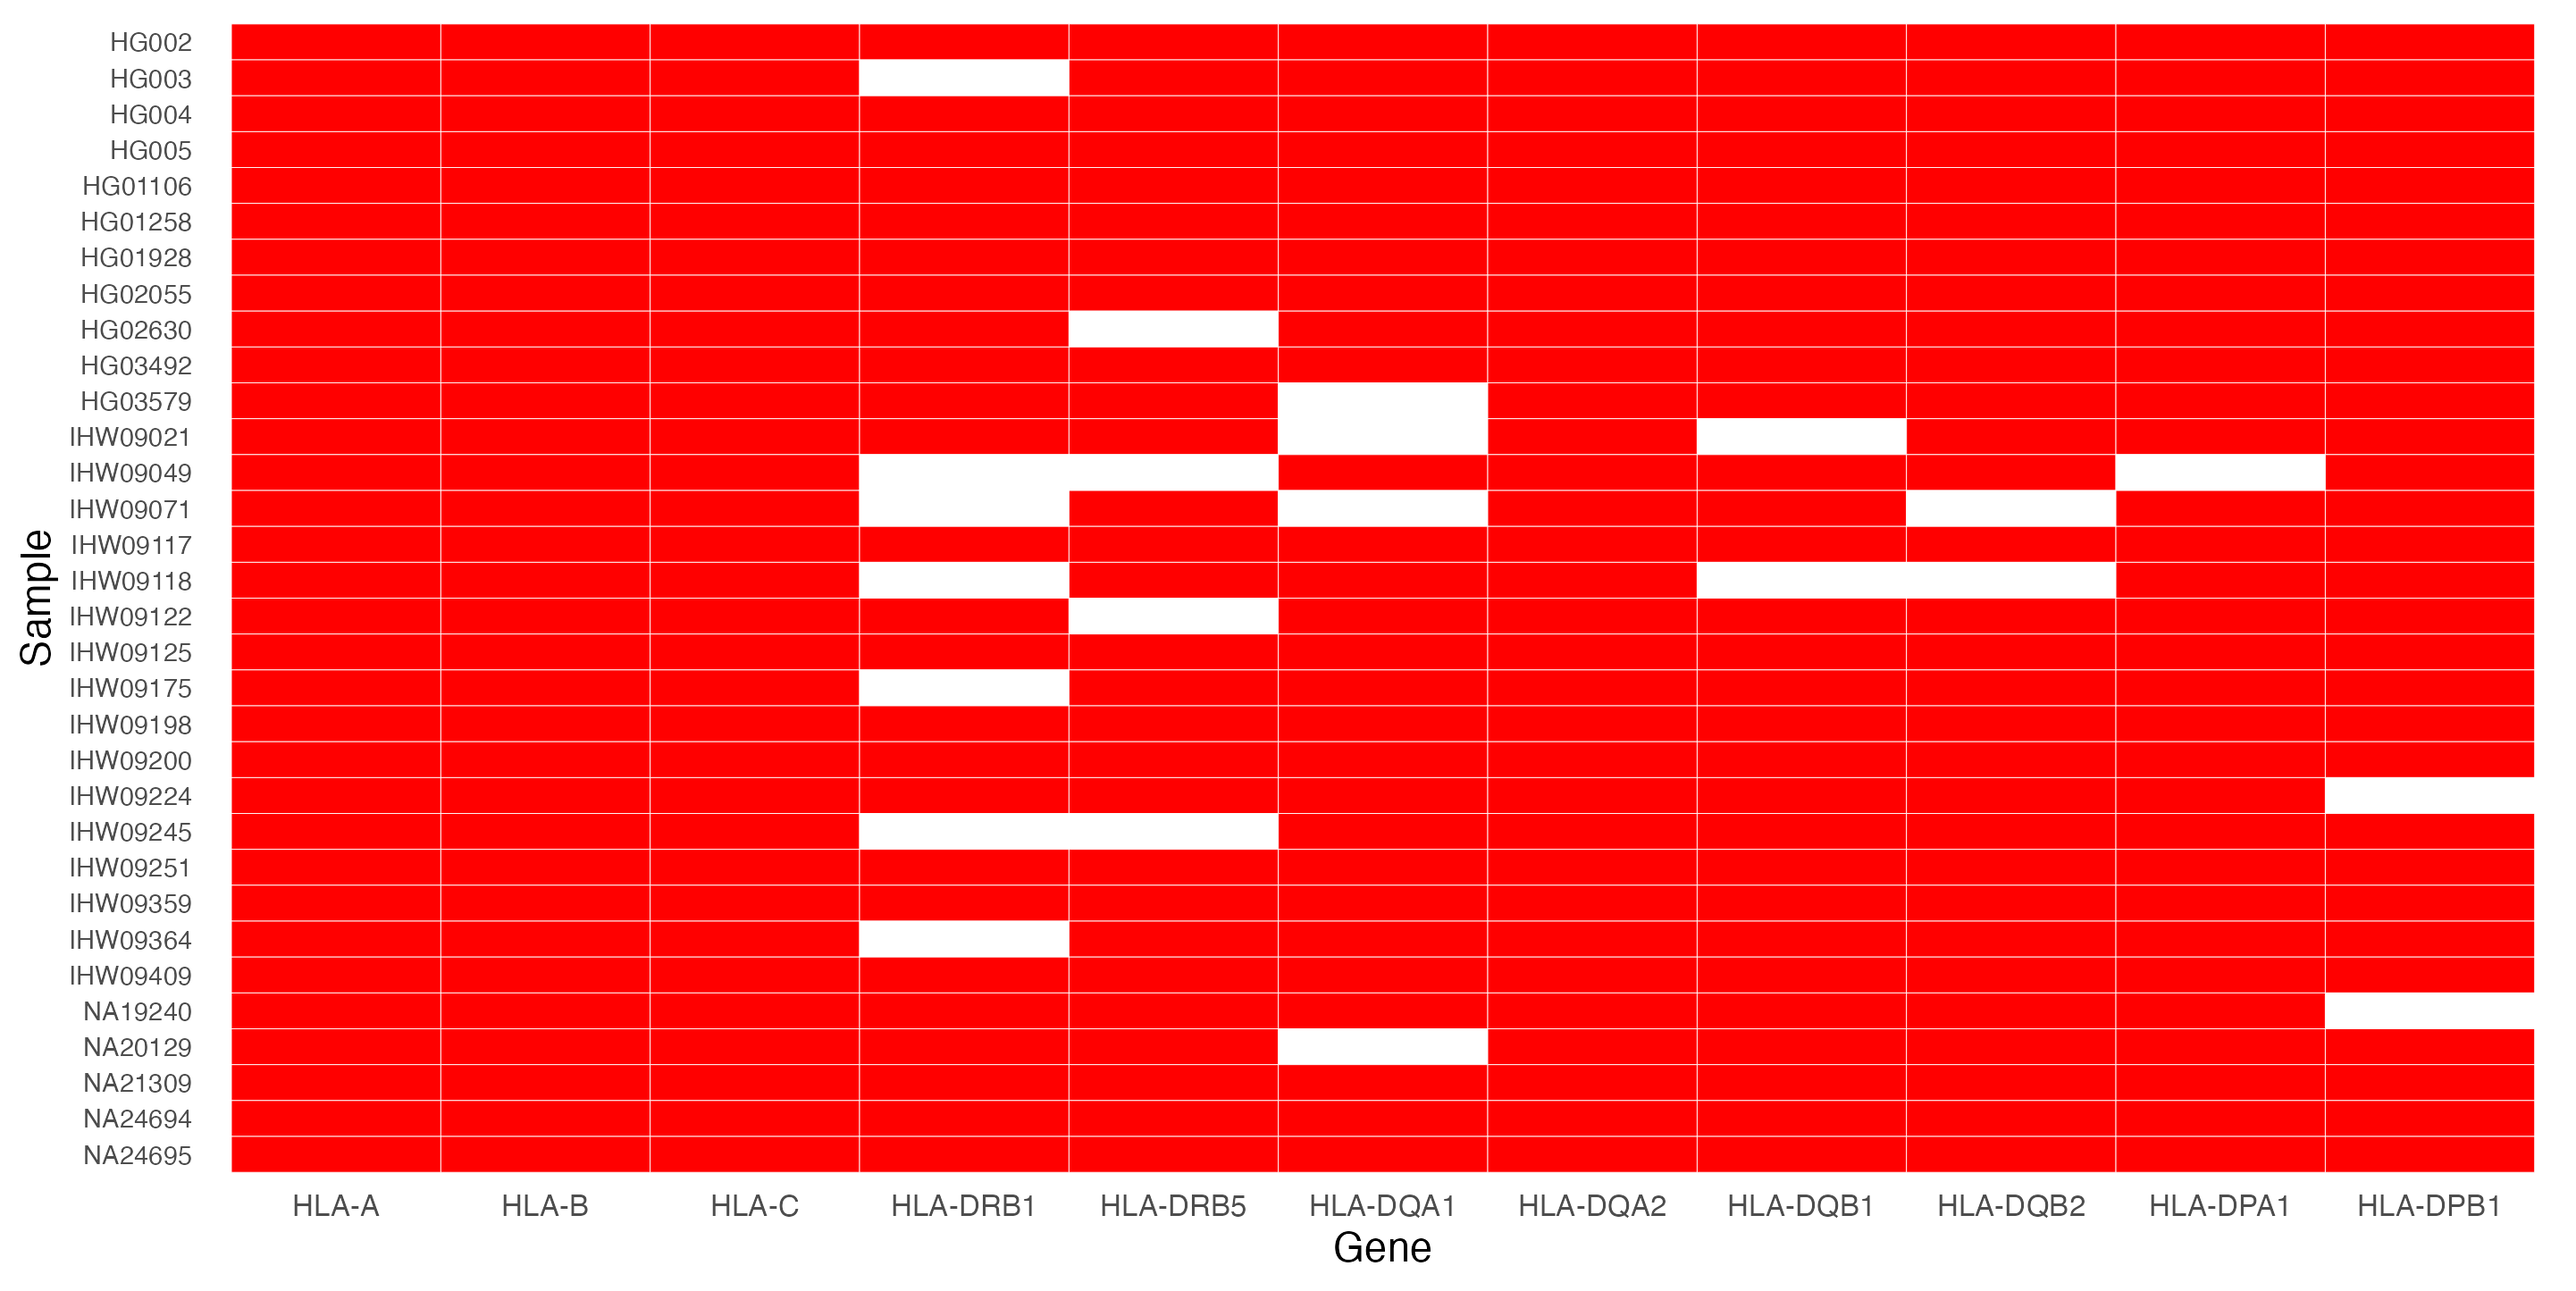
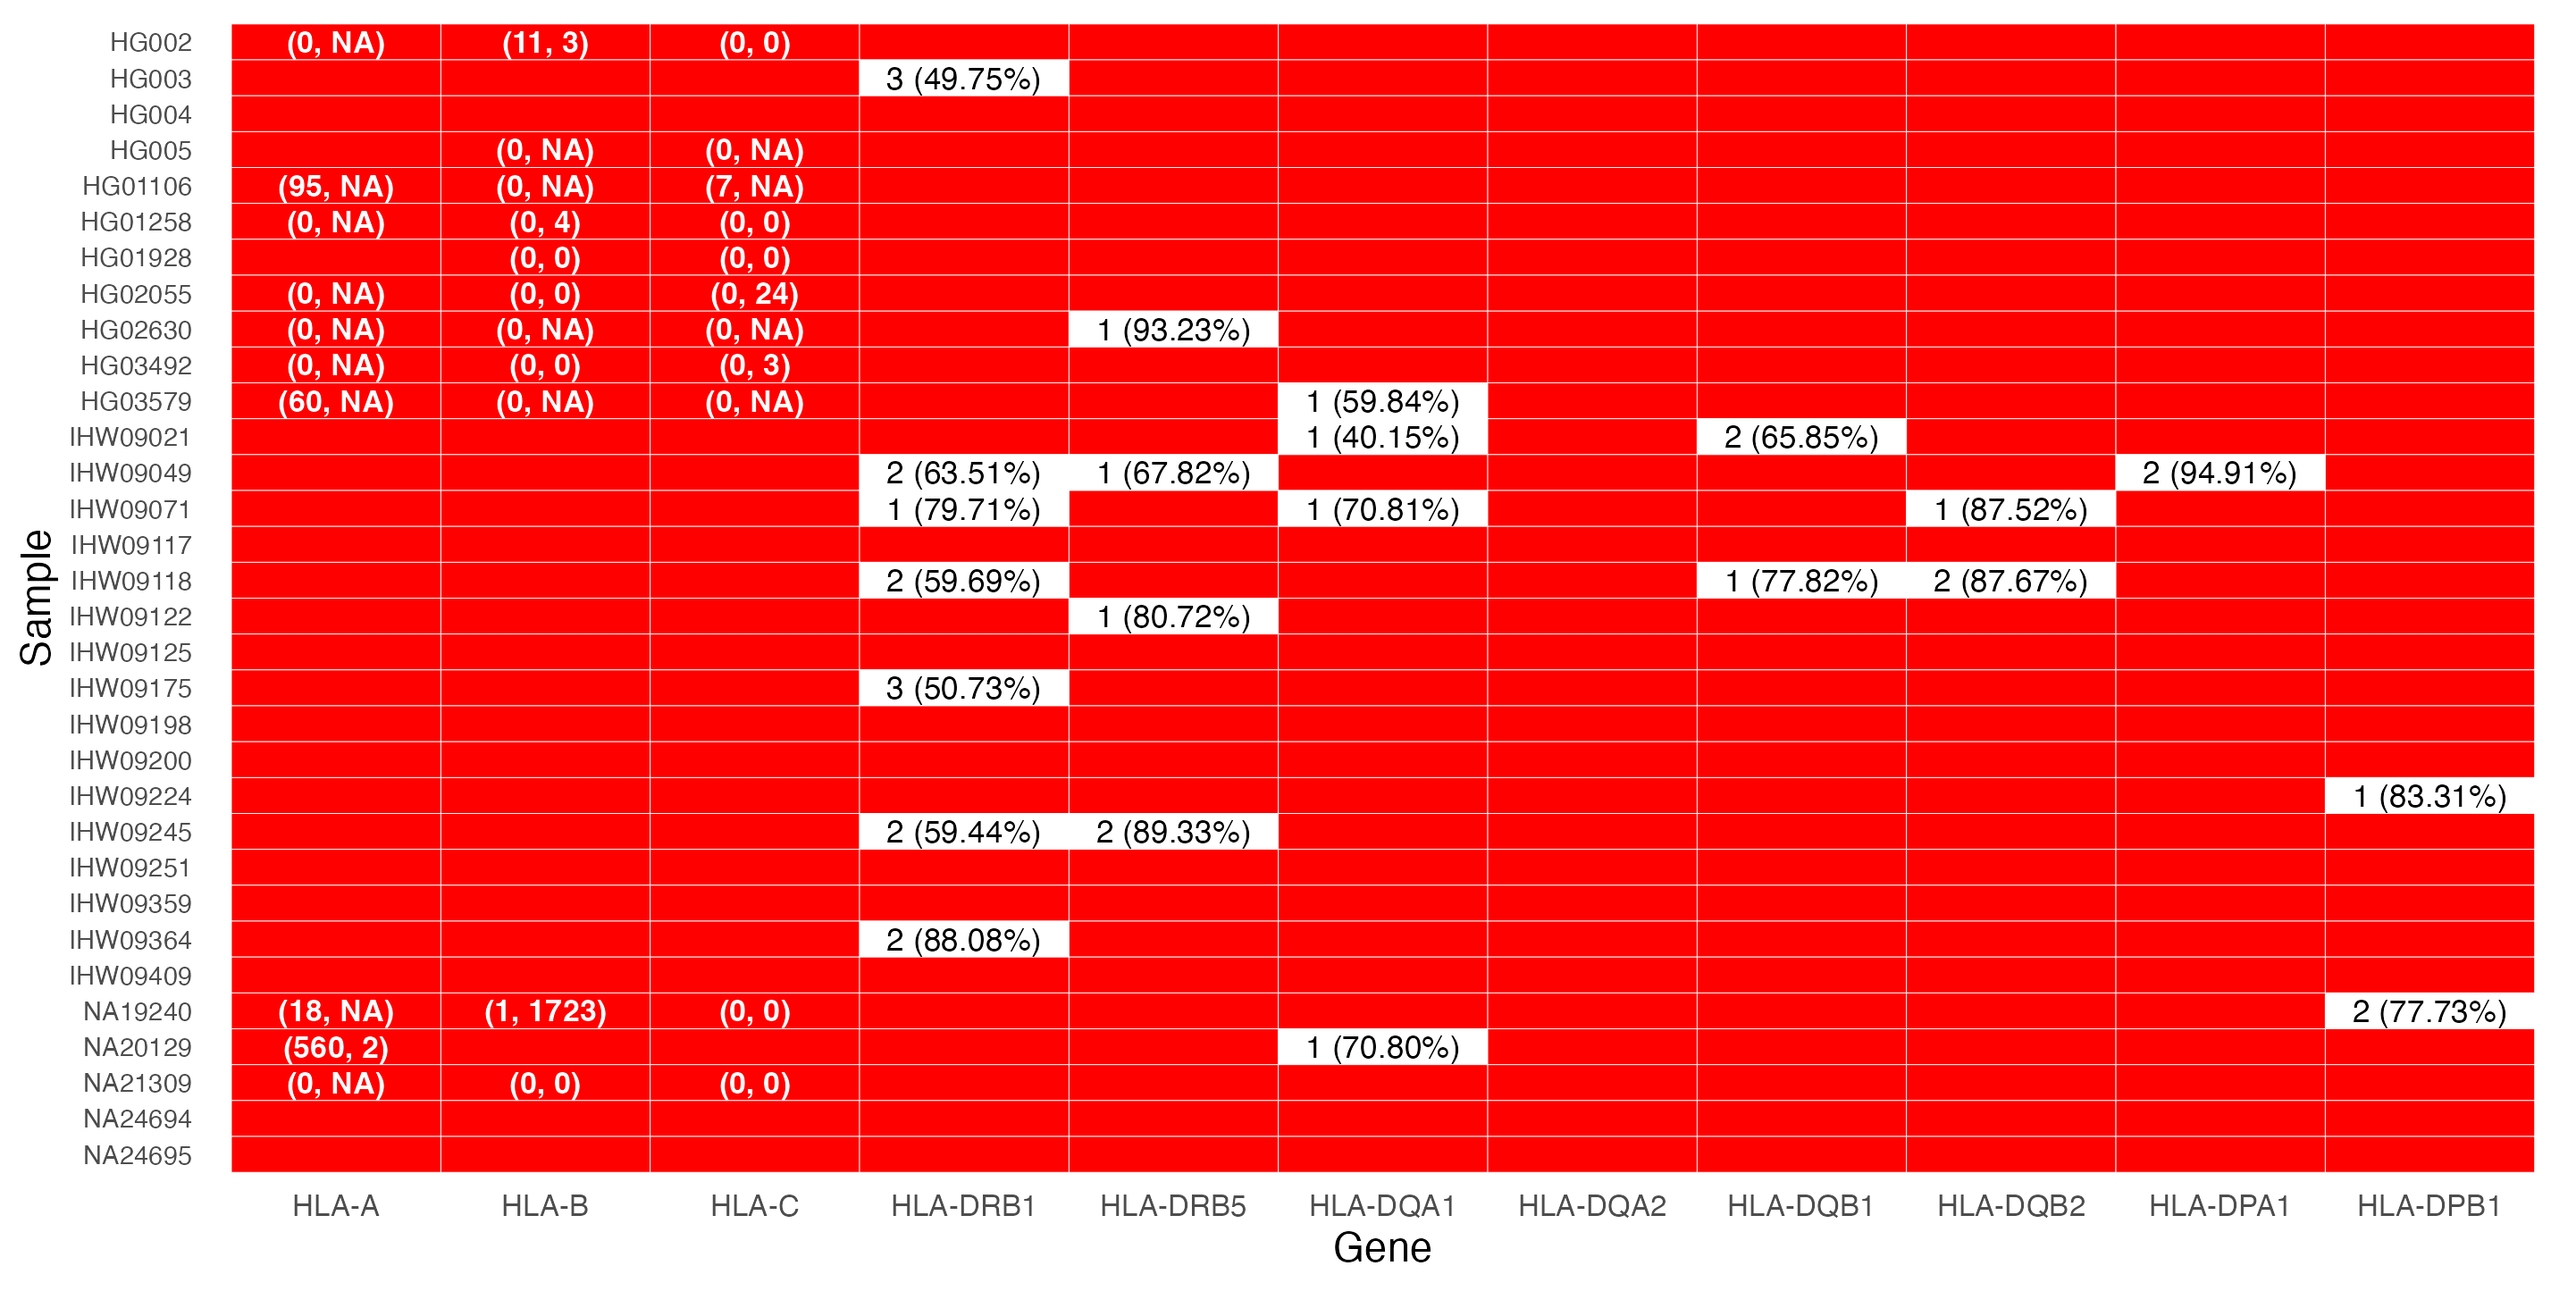
update

diff --git a/scripts/newest_parse_haploblocks.py b/scripts/newest_parse_haploblocks.py
@@ -123,6 +123,7 @@ def parse_haploblocks(sample, het_sites, params):
 # Check whether each captured MHC gene is completely spanned by a haploblock
 def evaluate_gene_haploblocks(sample, het_sites, haploblocks):
 	# List of fully phased genes
+	haploblocks.sort()
 	gene_list = []
 	
 	# List of genes with partially overlapping haploblock
@@ -166,10 +167,27 @@ def evaluate_gene_haploblocks(sample, het_sites, haploblocks):
 
 		# Get details on haploblock overlap for genes of interest (HLA Class I/II) that were not fully phased 
 		if not fully_phased and gene in genes_of_interest:
-			overlapping_haploblocks = [(block_start, block_stop) for (block_start, block_stop) in haploblocks if (block_stop >= gene_start and block_start <= gene_stop)]
+			overlapping_haploblocks = []
+			upstream_block = None
+			downstream_block = None
+
+			for block_start, block_stop in haploblocks:
+				if block_stop < gene_start:
+					upstream_block = (block_start, block_stop)
+				elif block_start > gene_stop:
+					downstream_block = (block_start, block_stop)
+					break
+				elif block_stop >= gene_start and block_start <= gene_stop:
+					overlapping_haploblocks.append((block_start, block_stop))
+
 			num_pre_merge_haploblocks = len(overlapping_haploblocks)  # Track count before extension & merging
 			print(f"Processing {sample} {gene}")
 			print(f"Overlapping unextended haploblocks: {len(overlapping_haploblocks)}")
+
+			if upstream_block:
+				overlapping_haploblocks.insert(0, upstream_block)
+			if downstream_block:
+				overlapping_haploblocks.append(downstream_block)
 
 			# Step 1: Extend each haploblock independently
 			extended_haploblocks = []
@@ -185,32 +203,44 @@ def evaluate_gene_haploblocks(sample, het_sites, haploblocks):
 			print(f"Extended haploblocks: {len(extended_haploblocks)}")
 
 			# Step 2: Merge overlapping extended haploblocks
-			merged_intervals = []
-			extended_haploblocks.sort()
+			# merged_intervals = []
+			# extended_haploblocks.sort()
+
+			# for start, stop in extended_haploblocks:
+			# 	if not merged_intervals or start > merged_intervals[-1][1]:
+			# 		merged_intervals.append((start, stop))
+			# 	else:
+			# 		last_start, last_stop = merged_intervals[-1]
+			# 		new_stop = max(last_stop, stop)
+			# 		merged_intervals[-1] = (last_start, new_stop)
+
+			# print(f"Merged haploblocks: {len(merged_intervals)}")
+
+			# # Step 3: Compute overlap & percentage
+			# total_overlap = 0
+			# for start, stop in merged_intervals:
+			# 	overlap_start = max(start, gene_start)
+			# 	overlap_stop = min(stop, gene_stop)
+			# 	overlap_length = max(0, overlap_stop - overlap_start)
+			# 	total_overlap += overlap_length
+			# prop_overlap = total_overlap / gene_length
+			# prop_phased_string = f"{prop_overlap * 100:.2f}%"
+
+			# Compute the proportion of the gene spanned by the largest extended haploblock
+			max_overlap = 0
 
 			for start, stop in extended_haploblocks:
-				if not merged_intervals or start > merged_intervals[-1][1]:
-					merged_intervals.append((start, stop))
-				else:
-					last_start, last_stop = merged_intervals[-1]
-					new_stop = max(last_stop, stop)
-					merged_intervals[-1] = (last_start, new_stop)
-
-			print(f"Merged haploblocks: {len(merged_intervals)}")
-
-			# Step 3: Compute overlap & percentage
-			total_overlap = 0
-			for start, stop in merged_intervals:
 				overlap_start = max(start, gene_start)
 				overlap_stop = min(stop, gene_stop)
 				overlap_length = max(0, overlap_stop - overlap_start)
-				total_overlap += overlap_length
-			prop_overlap = total_overlap / gene_length
-			prop_phased_string = f"{prop_overlap * 100:.2f}%"
+				max_overlap = max(max_overlap, overlap_length)
+			prop_overlap = max_overlap / gene_length
+			largest_overlap_string = f"{prop_overlap*100:.2f}%"
 
 			# Use the pre-merge haploblock count, not merged count!
-			sample_incomplete_data.append([sample, gene, num_pre_merge_haploblocks, prop_phased_string])
-			print(f"{sample} {gene}, Pre-Merge Haploblocks: {num_pre_merge_haploblocks}, Prop Phased: {prop_phased_string}")
+			sample_incomplete_data.append([sample, gene, num_pre_merge_haploblocks, largest_overlap_string])
+			print(f"{sample} {gene}, Pre-Merge Haploblocks: {num_pre_merge_haploblocks}")
+			print(f"Proportion of gene contained in largest overlapping haploblock: {largest_overlap_string}")
 
 	return sample, gene_list, sample_incomplete_data
 
@@ -229,7 +259,7 @@ def write_results(phaser, gene_haploblock_dict, incomplete_data):
 	if incomplete_data:
 		with open(f"incomplete.{phaser}.csv", "w", newline="") as csvfile:
 			csv_writer = csv.writer(csvfile)
-			csv_writer.writerow(["sample", "gene", "num_haploblocks", "prop_phased"])
+			csv_writer.writerow(["sample", "gene", "num_haploblocks", "largest_haploblock"])
 			csv_writer.writerows(incomplete_data)
 
 def make_heatmap_data(phaser, gene_haploblock_dict, incomplete_data):
